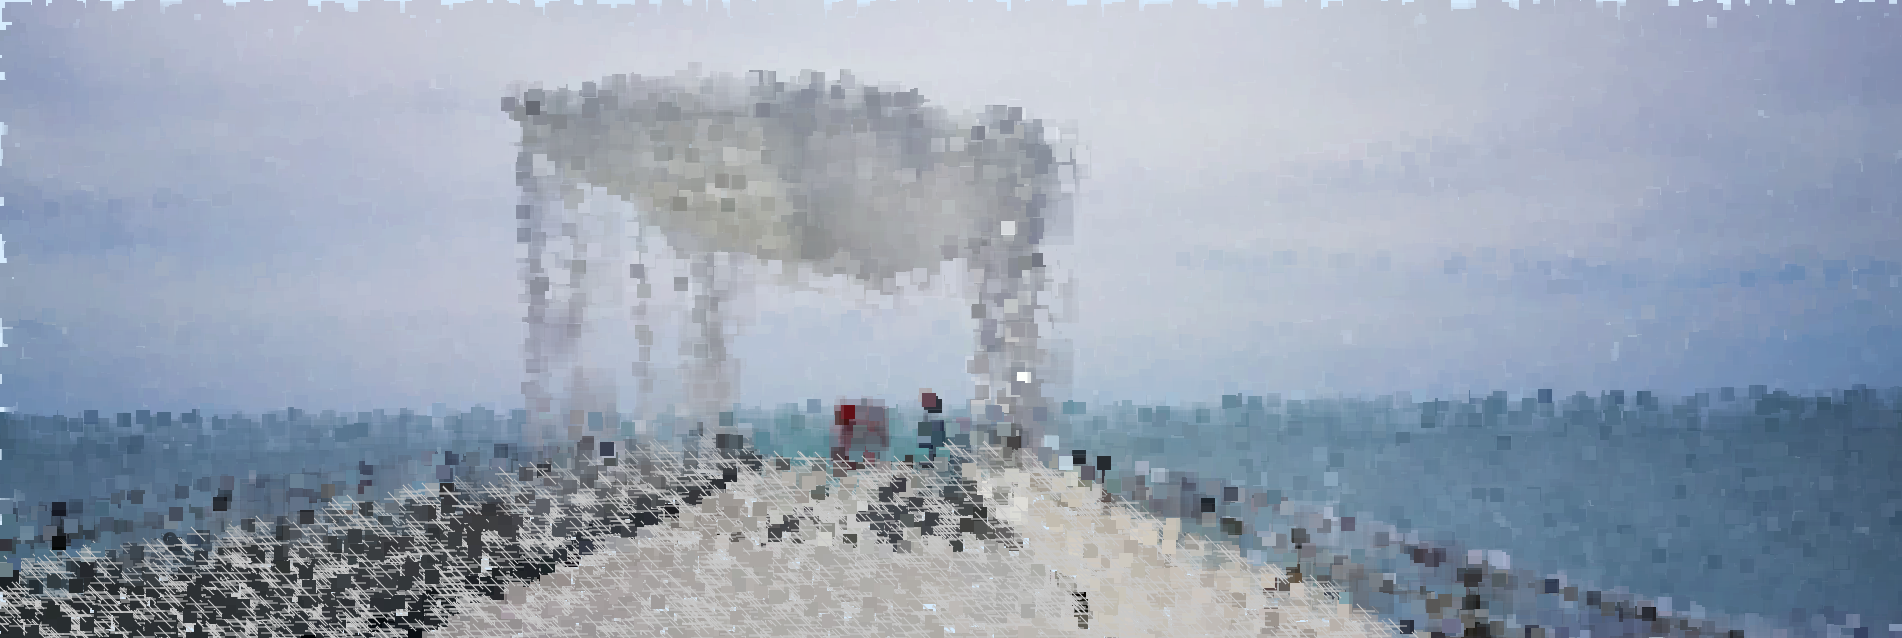
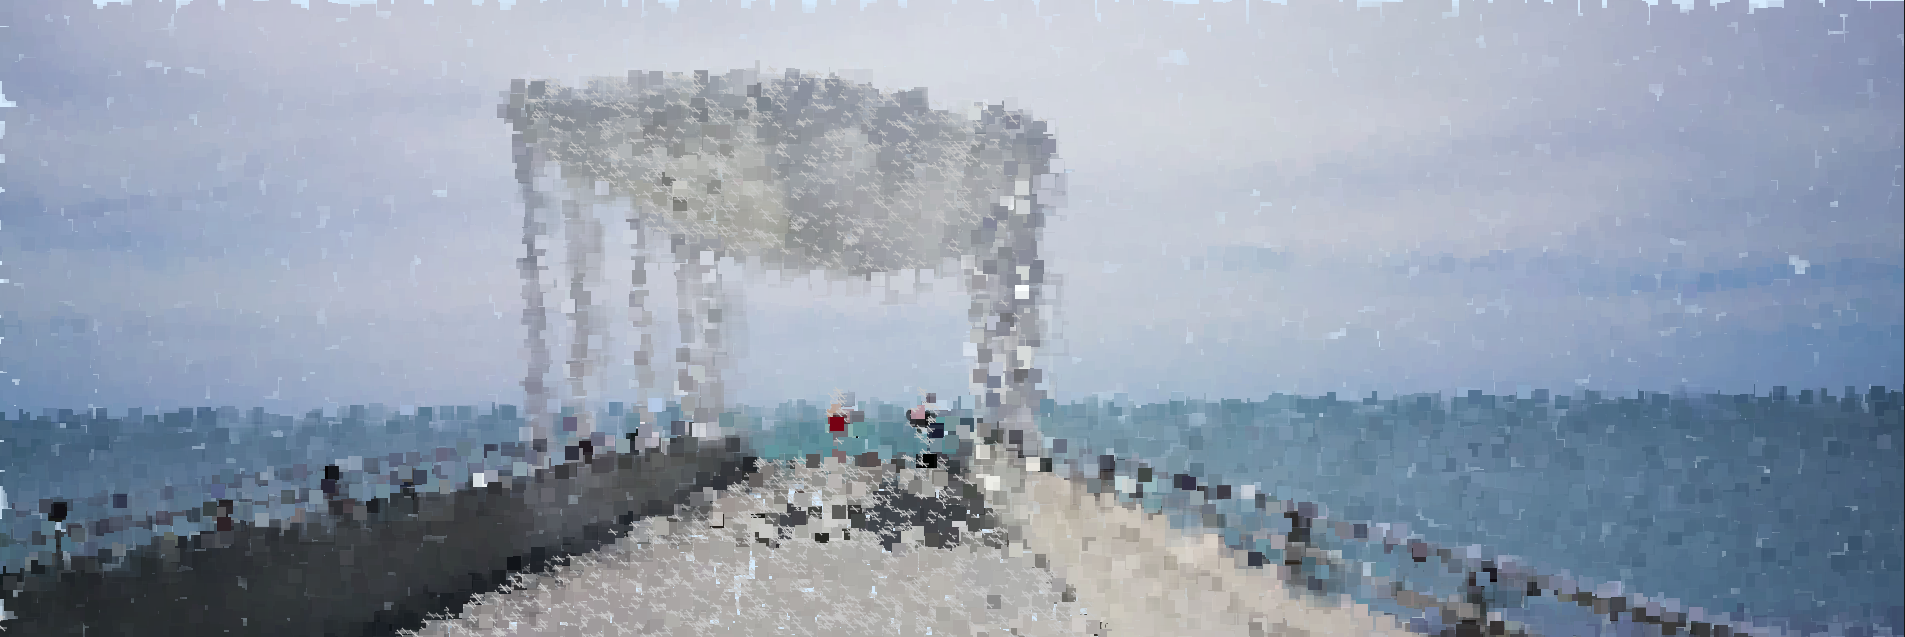
10/06/2020
Done the second picture. Start the third one.

diff --git a/sketch.js b/sketch.js
@@ -48,7 +48,7 @@ function draw () {
      }
      else{
          fill(pix[0],pix[1],pix[2],100)
-         rect(x, y, pointSize, pointSize);
+           ellipse(x, y, pointSize, pointSize);
      }
      pop()
 
@@ -63,7 +63,7 @@ if(mask[0] > 150 &&mask[0]<200) {
   }
   else{
       fill(pix[0],pix[1],pix[2],10)
-      rect(x, y, pointSize, pointSize);
+      ellipse(x, y, pointSize, pointSize);
   }
   pop()
       }
@@ -77,10 +77,10 @@ if(mask[0] > 150 &&mask[0]<200) {
 
     fill(pix);
     stroke(pix)
-    strokeWeight(5)
+    strokeWeight(1)
 
   if(mask[0] < 100){
-      let pointSize = 45;
+      let pointSize = 35;
       noStroke();
        fill(pix[0],pix[1],pix[2],40);
         rect(x, y, pointSize, pointSize);
@@ -100,8 +100,8 @@ if(mask[0] > 150 &&mask[0]<200) {
       //     fill(pix[0],pix[1],pix[2],40)
       //     line(x+1.5*cross, y, x-1.5*cross, y)
       //     line(x-cross, y-cross, x+cross, y+cross)
-           if(mask[0]>50 && mask[0]< 400){
-             let cross =7;
+           if(mask[0]>50 && mask[0]< 250){
+             let cross =3;
              //fill(pix[0],pix[1],pix[2],40)
              line(x+1.5*cross, y, x-1.5*cross, y)
              line(x-cross, y-cross, x+cross, y+cross)

diff --git a/README.md b/README.md
@@ -12,5 +12,6 @@ Try to do the second picture.
 Do some changes on the first picture. Done the first one. Change the preview.jpg and thumbnail.png.
 Done the second one.Change the preview.jpg and thumbnail.png.
 
-
+10/06/2020
+Done the second picture. Start the third one.
 The images above are photos of Wellington CBD algorithmically processed with a lightly modified version of the [p5.js Pointillism example](https://p5js.org/examples/image-pointillism.html). The masks for each photo highlight various objects. Replace this text with your own which explains the source of your photos, masking, and applied algorithm.
